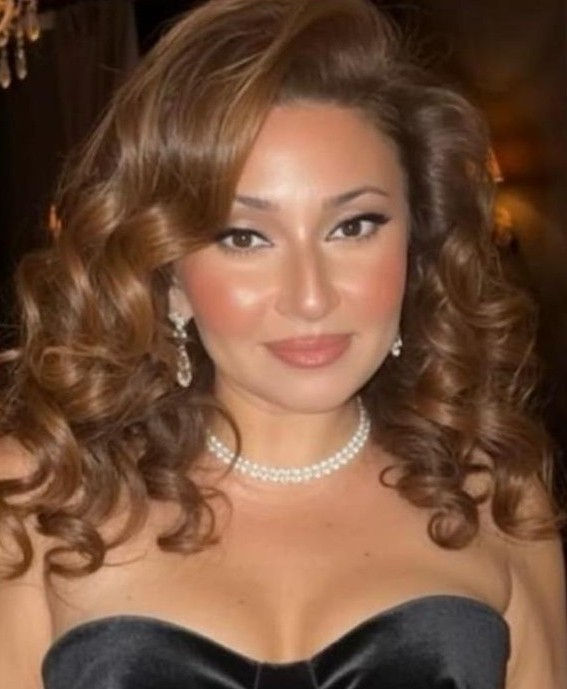
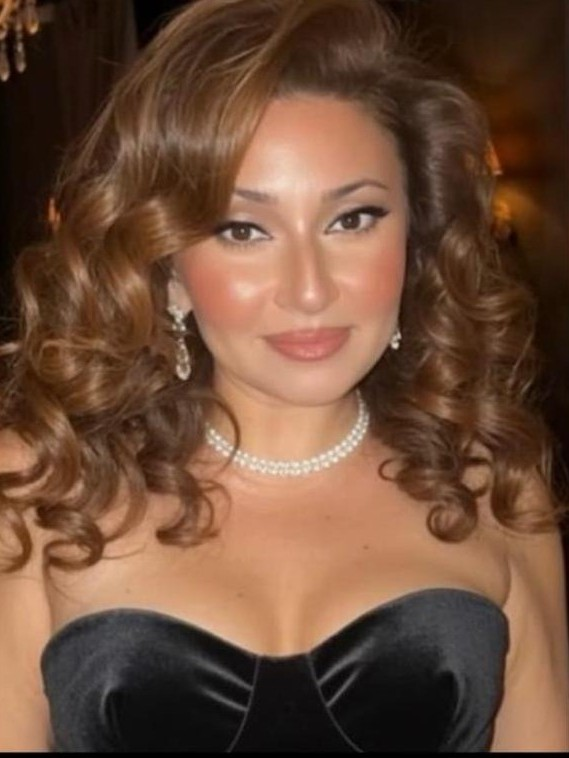
Compact past programs grid, update Aysel photo

diff --git a/index.html b/index.html
@@ -431,6 +431,42 @@
     .tl-download-btn { display: inline-flex; align-items: center; gap: .35rem; background: rgba(122,30,58,.07); border: 1px solid rgba(122,30,58,.28); color: var(--burgundy); font-family: var(--font-body); font-size: .71rem; font-weight: 600; letter-spacing: .08em; text-transform: uppercase; padding: .32rem .85rem; border-radius: 3px; text-decoration: none; transition: background .2s, color .2s, transform .2s; margin-top: .7rem; cursor: none; }
     .tl-download-btn:hover { background: var(--burgundy); color: white; transform: translateY(-1px); }
 
+    /* ─── Compact Programs Grid ─────────────────────────────────────── */
+    .past-section-header { margin-bottom: 2rem !important; }
+    .programs-compact-grid { display: grid; grid-template-columns: repeat(2,1fr); gap: .65rem; }
+    @media(max-width:640px){ .programs-compact-grid { grid-template-columns: 1fr; } }
+
+    .pc-card { background: var(--parchment); border: 1px solid var(--stone); border-left: 3px solid transparent; border-radius: 6px; padding: .85rem 1.1rem; position: relative; transition: transform .22s ease, box-shadow .22s ease, border-color .22s ease; }
+    .pc-card:hover { transform: translateY(-2px); box-shadow: 0 6px 22px rgba(28,18,8,.1); }
+
+    .pc-march   { border-left-color: var(--eu-blue); }
+    .pc-summer  { border-left-color: var(--terracotta); }
+    .pc-newyear { border-left-color: var(--bronze); }
+    .pc-autumn  { border-left-color: var(--burgundy); }
+
+    .pc-march:hover   { border-color: rgba(0,51,153,.28);   border-left-color: var(--eu-blue); }
+    .pc-summer:hover  { border-color: rgba(192,82,40,.28);  border-left-color: var(--terracotta); }
+    .pc-newyear:hover { border-color: rgba(181,118,46,.28); border-left-color: var(--bronze); }
+    .pc-autumn:hover  { border-color: rgba(122,30,58,.28);  border-left-color: var(--burgundy); }
+
+    .pc-meta { display: flex; align-items: center; justify-content: space-between; gap: .5rem; margin-bottom: .38rem; }
+    .pc-date { font-family: var(--font-serif); font-style: italic; font-size: .8rem; color: var(--muted); white-space: nowrap; }
+    .pc-badge { font-size: .56rem; font-weight: 700; letter-spacing: .13em; text-transform: uppercase; border-radius: 100px; padding: .14rem .55rem; white-space: nowrap; }
+    .pc-march .pc-badge   { color: var(--eu-blue);   background: rgba(0,51,153,.06);   border: 1px solid rgba(0,51,153,.14); }
+    .pc-summer .pc-badge  { color: var(--terracotta); background: rgba(192,82,40,.06);  border: 1px solid rgba(192,82,40,.14); }
+    .pc-newyear .pc-badge { color: var(--bronze);    background: rgba(181,118,46,.06);  border: 1px solid rgba(181,118,46,.18); }
+    .pc-autumn .pc-badge  { color: var(--burgundy);  background: rgba(122,30,58,.06);   border: 1px solid rgba(122,30,58,.14); }
+
+    .pc-title { font-family: var(--font-display); font-size: 1.0rem; text-transform: uppercase; letter-spacing: .04em; color: var(--ink); line-height: 1; margin-bottom: .4rem; }
+    .pc-cities { display: flex; flex-wrap: wrap; gap: .2rem; }
+    .pc-city { display: inline-flex; align-items: center; gap: .2rem; background: rgba(28,18,8,.04); border: 1px solid rgba(200,184,152,.7); border-radius: 100px; padding: .13rem .48rem; font-size: .67rem; font-weight: 500; color: var(--ink); white-space: nowrap; }
+    .pc-footer { display: flex; align-items: center; justify-content: space-between; flex-wrap: wrap; gap: .35rem; margin-top: .45rem; padding-top: .38rem; border-top: 1px solid rgba(200,184,152,.5); }
+    .pc-partner { font-size: .62rem; color: var(--muted); display: flex; align-items: center; gap: .28rem; line-height: 1.4; }
+    .pc-partner strong { color: var(--ink); font-weight: 600; }
+    .pc-done-dot { width: 5px; height: 5px; border-radius: 50%; background: #22C55E; flex-shrink: 0; margin-top: 1px; }
+    .pc-download-btn { display: inline-flex; align-items: center; gap: .3rem; background: rgba(122,30,58,.07); border: 1px solid rgba(122,30,58,.28); color: var(--burgundy); font-family: var(--font-body); font-size: .62rem; font-weight: 700; letter-spacing: .08em; text-transform: uppercase; padding: .25rem .7rem; border-radius: 3px; text-decoration: none; transition: background .18s, color .18s; cursor: none; white-space: nowrap; }
+    .pc-download-btn:hover { background: var(--burgundy); color: white; }
+
     /* Utilities */
     .container { max-width: 1200px; margin: 0 auto; }
     .mt-2 { margin-top: 2rem; }
@@ -675,186 +711,162 @@
         <p class="past-desc reveal reveal-delay-2">From Budapest to Barcelona — CEEP has brought hundreds of students across 14+ European cities since 2019. Every edition a new chapter, every cohort a new story.</p>
       </div>
 
-      <div class="timeline">
+      <div class="programs-compact-grid">
 
-        <div class="tl-year-divider reveal"><span>2022</span></div>
-
-        <div class="tl-item tl-march tl-left reveal reveal-delay-1">
-          <div class="tl-node"></div>
-          <div class="tl-card">
-            <div class="tl-photo-strip"><img src="https://images.unsplash.com/photo-1526481280693-3bfa7568e0f3?w=400&q=70" alt="Budapest" loading="lazy" /></div>
-            <div class="tl-card-inner">
-              <div class="tl-season-tag">🌸 March 2022</div>
-              <div class="tl-title">Spring Program</div>
-              <div class="tl-cities">
-                <span class="tl-city">🇭🇺 Budapest</span>
-                <span class="tl-city">🇦🇹 Vienna</span>
-                <span class="tl-city">🇫🇷 Paris</span>
-              </div>
-              <div class="tl-partner-note"><span class="tl-done-dot"></span>Organized by <strong>Budapest University of Technology and Economics</strong></div>
-            </div>
+        <!-- 1 · March 2022 -->
+        <div class="pc-card pc-march reveal reveal-delay-1">
+          <div class="pc-meta">
+            <span class="pc-date">🌸 March 2022</span>
+            <span class="pc-badge">Spring</span>
+          </div>
+          <div class="pc-title">Spring Program</div>
+          <div class="pc-cities">
+            <span class="pc-city">🇭🇺 Budapest</span>
+            <span class="pc-city">🇦🇹 Vienna</span>
+            <span class="pc-city">🇫🇷 Paris</span>
+          </div>
+          <div class="pc-footer">
+            <div class="pc-partner"><span class="pc-done-dot"></span>Organized by <strong>Budapest University of Technology and Economics</strong></div>
           </div>
         </div>
 
-        <div class="tl-item tl-summer tl-right reveal reveal-delay-2">
-          <div class="tl-node"></div>
-          <div class="tl-card">
-            <div class="tl-photo-strip"><img src="https://images.unsplash.com/photo-1541849546-216549ae216d?w=400&q=70" alt="Prague" loading="lazy" /></div>
-            <div class="tl-card-inner">
-              <div class="tl-season-tag">☀ Summer 2022</div>
-              <div class="tl-title">Summer School</div>
-              <div class="tl-cities">
-                <span class="tl-city">🇨🇿 Prague</span>
-                <span class="tl-city">🇩🇪 Berlin</span>
-                <span class="tl-city">🇦🇹 Vienna</span>
-              </div>
-            </div>
+        <!-- 2 · Summer 2022 -->
+        <div class="pc-card pc-summer reveal reveal-delay-2">
+          <div class="pc-meta">
+            <span class="pc-date">☀ Summer 2022</span>
+            <span class="pc-badge">Summer School</span>
+          </div>
+          <div class="pc-title">Summer School</div>
+          <div class="pc-cities">
+            <span class="pc-city">🇨🇿 Prague</span>
+            <span class="pc-city">🇩🇪 Berlin</span>
+            <span class="pc-city">🇦🇹 Vienna</span>
           </div>
         </div>
 
-        <div class="tl-year-divider reveal"><span>2023</span></div>
-
-        <div class="tl-item tl-march tl-left reveal reveal-delay-1">
-          <div class="tl-node"></div>
-          <div class="tl-card">
-            <div class="tl-photo-strip"><img src="https://images.unsplash.com/photo-1526481280693-3bfa7568e0f3?w=400&q=70" alt="Budapest" loading="lazy" /></div>
-            <div class="tl-card-inner">
-              <div class="tl-season-tag">🌸 March 2023</div>
-              <div class="tl-title">Spring Program</div>
-              <div class="tl-cities">
-                <span class="tl-city">🇭🇺 Budapest</span>
-                <span class="tl-city">🇦🇹 Vienna</span>
-                <span class="tl-city">🇨🇿 Prague</span>
-              </div>
-            </div>
+        <!-- 3 · March 2023 -->
+        <div class="pc-card pc-march reveal reveal-delay-1">
+          <div class="pc-meta">
+            <span class="pc-date">🌸 March 2023</span>
+            <span class="pc-badge">Spring</span>
+          </div>
+          <div class="pc-title">Spring Program</div>
+          <div class="pc-cities">
+            <span class="pc-city">🇭🇺 Budapest</span>
+            <span class="pc-city">🇦🇹 Vienna</span>
+            <span class="pc-city">🇨🇿 Prague</span>
           </div>
         </div>
 
-        <div class="tl-item tl-summer tl-right reveal reveal-delay-2">
-          <div class="tl-node"></div>
-          <div class="tl-card">
-            <div class="tl-photo-strip"><img src="https://images.unsplash.com/photo-1514890547357-a9ee288728e0?w=400&q=70" alt="Venice" loading="lazy" /></div>
-            <div class="tl-card-inner">
-              <div class="tl-season-tag">☀ Summer 2023</div>
-              <div class="tl-title">Summer School</div>
-              <div class="tl-cities">
-                <span class="tl-city">🇨🇿 Prague</span>
-                <span class="tl-city">🇮🇹 Venezia</span>
-                <span class="tl-city">🇦🇹 Vienna</span>
-                <span class="tl-city">🇭🇺 Budapest</span>
-              </div>
-            </div>
+        <!-- 4 · Summer 2023 -->
+        <div class="pc-card pc-summer reveal reveal-delay-2">
+          <div class="pc-meta">
+            <span class="pc-date">☀ Summer 2023</span>
+            <span class="pc-badge">Summer School</span>
+          </div>
+          <div class="pc-title">Summer School</div>
+          <div class="pc-cities">
+            <span class="pc-city">🇨🇿 Prague</span>
+            <span class="pc-city">🇮🇹 Venezia</span>
+            <span class="pc-city">🇦🇹 Vienna</span>
+            <span class="pc-city">🇭🇺 Budapest</span>
           </div>
         </div>
 
-        <div class="tl-item tl-newyear tl-left reveal reveal-delay-3">
-          <div class="tl-node"></div>
-          <div class="tl-card">
-            <div class="tl-photo-strip"><img src="https://images.unsplash.com/photo-1502602898657-3e91760cbb34?w=400&q=70" alt="Paris" loading="lazy" /></div>
-            <div class="tl-card-inner">
-              <div class="tl-season-tag">🎆 New Year 2023</div>
-              <div class="tl-title">New Year Edition</div>
-              <div class="tl-cities">
-                <span class="tl-city">🇨🇿 Prague</span>
-                <span class="tl-city">🇩🇪 Frankfurt</span>
-                <span class="tl-city">🇧🇪 Brussels</span>
-                <span class="tl-city">🇫🇷 Paris</span>
-              </div>
-            </div>
+        <!-- 5 · New Year 2023 -->
+        <div class="pc-card pc-newyear reveal reveal-delay-3">
+          <div class="pc-meta">
+            <span class="pc-date">🎆 New Year 2023</span>
+            <span class="pc-badge">Special Edition</span>
+          </div>
+          <div class="pc-title">New Year Edition</div>
+          <div class="pc-cities">
+            <span class="pc-city">🇨🇿 Prague</span>
+            <span class="pc-city">🇩🇪 Frankfurt</span>
+            <span class="pc-city">🇧🇪 Brussels</span>
+            <span class="pc-city">🇫🇷 Paris</span>
           </div>
         </div>
 
-        <div class="tl-year-divider reveal"><span>2024</span></div>
-
-        <div class="tl-item tl-summer tl-right reveal reveal-delay-1">
-          <div class="tl-node"></div>
-          <div class="tl-card">
-            <div class="tl-photo-strip"><img src="https://images.unsplash.com/photo-1534351590666-13e3e96b5017?w=400&q=70" alt="Amsterdam" loading="lazy" /></div>
-            <div class="tl-card-inner">
-              <div class="tl-season-tag">☀ Summer 2024</div>
-              <div class="tl-title">Summer School</div>
-              <div class="tl-cities">
-                <span class="tl-city">🇨🇿 Prague</span>
-                <span class="tl-city">🇦🇹 Vienna</span>
-                <span class="tl-city">🇩🇪 Frankfurt</span>
-                <span class="tl-city">🇳🇱 Amsterdam</span>
-              </div>
-            </div>
+        <!-- 6 · Summer 2024 -->
+        <div class="pc-card pc-summer reveal reveal-delay-1">
+          <div class="pc-meta">
+            <span class="pc-date">☀ Summer 2024</span>
+            <span class="pc-badge">Summer School</span>
+          </div>
+          <div class="pc-title">Summer School</div>
+          <div class="pc-cities">
+            <span class="pc-city">🇨🇿 Prague</span>
+            <span class="pc-city">🇦🇹 Vienna</span>
+            <span class="pc-city">🇩🇪 Frankfurt</span>
+            <span class="pc-city">🇳🇱 Amsterdam</span>
           </div>
         </div>
 
-        <div class="tl-year-divider reveal"><span>2025</span></div>
-
-        <div class="tl-item tl-march tl-left reveal reveal-delay-1">
-          <div class="tl-node"></div>
-          <div class="tl-card">
-            <div class="tl-photo-strip"><img src="https://images.unsplash.com/photo-1491557345352-5929e343eb89?w=400&q=70" alt="Brussels" loading="lazy" /></div>
-            <div class="tl-card-inner">
-              <div class="tl-season-tag">🌸 March 2025</div>
-              <div class="tl-title">Spring Program</div>
-              <div class="tl-cities">
-                <span class="tl-city">🇧🇪 Brussels</span>
-                <span class="tl-city">🇳🇱 Amsterdam</span>
-                <span class="tl-city">🇫🇷 Paris</span>
-                <span class="tl-city">🇩🇪 Munich</span>
-                <span class="tl-city">🇨🇿 Prague</span>
-              </div>
-              <div class="tl-partner-note"><span class="tl-done-dot"></span><strong>BME</strong> &amp; <strong>Prague Business School</strong> collaboration</div>
-            </div>
+        <!-- 7 · March 2025 -->
+        <div class="pc-card pc-march reveal reveal-delay-1">
+          <div class="pc-meta">
+            <span class="pc-date">🌸 March 2025</span>
+            <span class="pc-badge">Spring</span>
+          </div>
+          <div class="pc-title">Spring Program</div>
+          <div class="pc-cities">
+            <span class="pc-city">🇧🇪 Brussels</span>
+            <span class="pc-city">🇳🇱 Amsterdam</span>
+            <span class="pc-city">🇫🇷 Paris</span>
+            <span class="pc-city">🇩🇪 Munich</span>
+            <span class="pc-city">🇨🇿 Prague</span>
+          </div>
+          <div class="pc-footer">
+            <div class="pc-partner"><span class="pc-done-dot"></span><strong>BME</strong> &amp; <strong>Prague Business School</strong> collaboration</div>
           </div>
         </div>
 
-        <div class="tl-item tl-summer tl-right reveal reveal-delay-2">
-          <div class="tl-node"></div>
-          <div class="tl-card">
-            <div class="tl-photo-strip"><img src="https://images.unsplash.com/photo-1514890547357-a9ee288728e0?w=400&q=70" alt="Venice" loading="lazy" /></div>
-            <div class="tl-card-inner">
-              <div class="tl-season-tag">☀ Summer 2025</div>
-              <div class="tl-title">Summer School</div>
-              <div class="tl-cities">
-                <span class="tl-city">🇮🇹 Venezia</span>
-                <span class="tl-city">🇮🇹 Milano</span>
-                <span class="tl-city">🇨🇭 Zurich</span>
-                <span class="tl-city">🇨🇭 Geneva</span>
-              </div>
-            </div>
+        <!-- 8 · Summer 2025 -->
+        <div class="pc-card pc-summer reveal reveal-delay-2">
+          <div class="pc-meta">
+            <span class="pc-date">☀ Summer 2025</span>
+            <span class="pc-badge">Summer School</span>
+          </div>
+          <div class="pc-title">Summer School</div>
+          <div class="pc-cities">
+            <span class="pc-city">🇮🇹 Venezia</span>
+            <span class="pc-city">🇮🇹 Milano</span>
+            <span class="pc-city">🇨🇭 Zurich</span>
+            <span class="pc-city">🇨🇭 Geneva</span>
           </div>
         </div>
 
-        <div class="tl-item tl-autumn tl-left reveal reveal-delay-3">
-          <div class="tl-node"></div>
-          <div class="tl-card">
-            <div class="tl-photo-strip"><img src="https://images.unsplash.com/photo-1526481280693-3bfa7568e0f3?w=400&q=70" alt="Budapest" loading="lazy" /></div>
-            <div class="tl-card-inner">
-              <div class="tl-season-tag">🍂 November 2025</div>
-              <div class="tl-title">Autumn Program</div>
-              <div class="tl-cities">
-                <span class="tl-city">🇭🇺 Budapest</span>
-                <span class="tl-city">🇮🇹 Venezia</span>
-                <span class="tl-city">🇮🇹 Milano</span>
-                <span class="tl-city">🇮🇹 Roma</span>
-              </div>
-              <a href="docs/agenda-november-2025.pdf" target="_blank" rel="noopener" class="tl-download-btn">↓ Download Agenda</a>
-            </div>
+        <!-- 9 · November 2025 -->
+        <div class="pc-card pc-autumn reveal reveal-delay-3">
+          <div class="pc-meta">
+            <span class="pc-date">🍂 November 2025</span>
+            <span class="pc-badge">Autumn</span>
+          </div>
+          <div class="pc-title">Autumn Program</div>
+          <div class="pc-cities">
+            <span class="pc-city">🇭🇺 Budapest</span>
+            <span class="pc-city">🇮🇹 Venezia</span>
+            <span class="pc-city">🇮🇹 Milano</span>
+            <span class="pc-city">🇮🇹 Roma</span>
+          </div>
+          <div class="pc-footer">
+            <a href="docs/agenda-november-2025.pdf" target="_blank" rel="noopener" class="pc-download-btn">↓ Download Agenda</a>
           </div>
         </div>
 
-        <div class="tl-year-divider reveal"><span>2026</span></div>
-
-        <div class="tl-item tl-march tl-right reveal reveal-delay-1">
-          <div class="tl-node"></div>
-          <div class="tl-card">
-            <div class="tl-photo-strip"><img src="https://images.unsplash.com/photo-1541849546-216549ae216d?w=400&q=70" alt="Prague" loading="lazy" /></div>
-            <div class="tl-card-inner">
-              <div class="tl-season-tag">🌸 March 2026</div>
-              <div class="tl-title">Spring Program</div>
-              <div class="tl-cities">
-                <span class="tl-city">🇨🇿 Prague</span>
-                <span class="tl-city">🇩🇪 Frankfurt</span>
-                <span class="tl-city">🇳🇱 Amsterdam</span>
-                <span class="tl-city">🇫🇷 Paris</span>
-              </div>
-            </div>
+        <!-- 10 · March 2026 -->
+        <div class="pc-card pc-march reveal reveal-delay-1">
+          <div class="pc-meta">
+            <span class="pc-date">🌸 March 2026</span>
+            <span class="pc-badge">Spring</span>
+          </div>
+          <div class="pc-title">Spring Program</div>
+          <div class="pc-cities">
+            <span class="pc-city">🇨🇿 Prague</span>
+            <span class="pc-city">🇩🇪 Frankfurt</span>
+            <span class="pc-city">🇳🇱 Amsterdam</span>
+            <span class="pc-city">🇫🇷 Paris</span>
           </div>
         </div>
 
